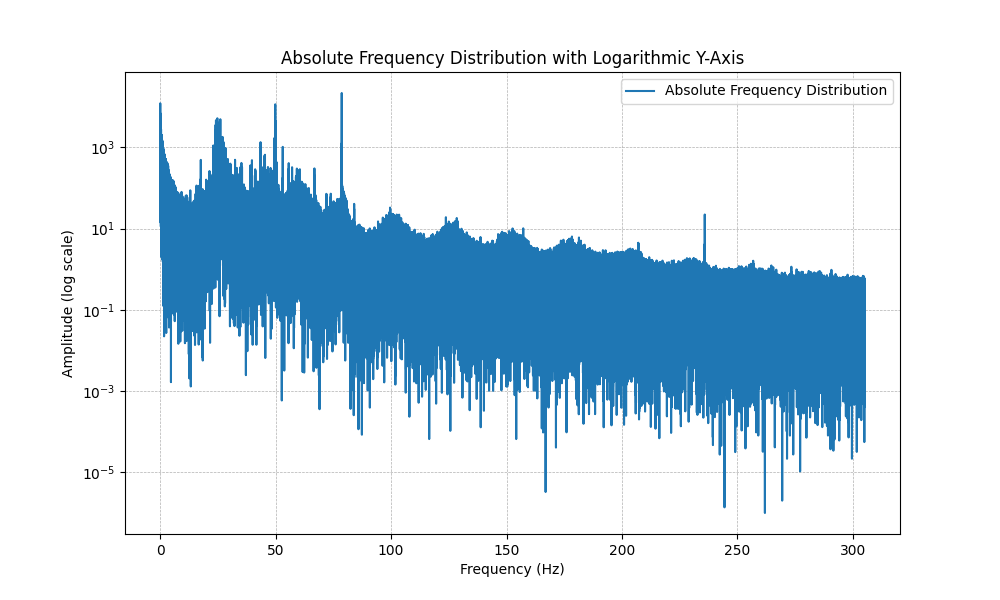
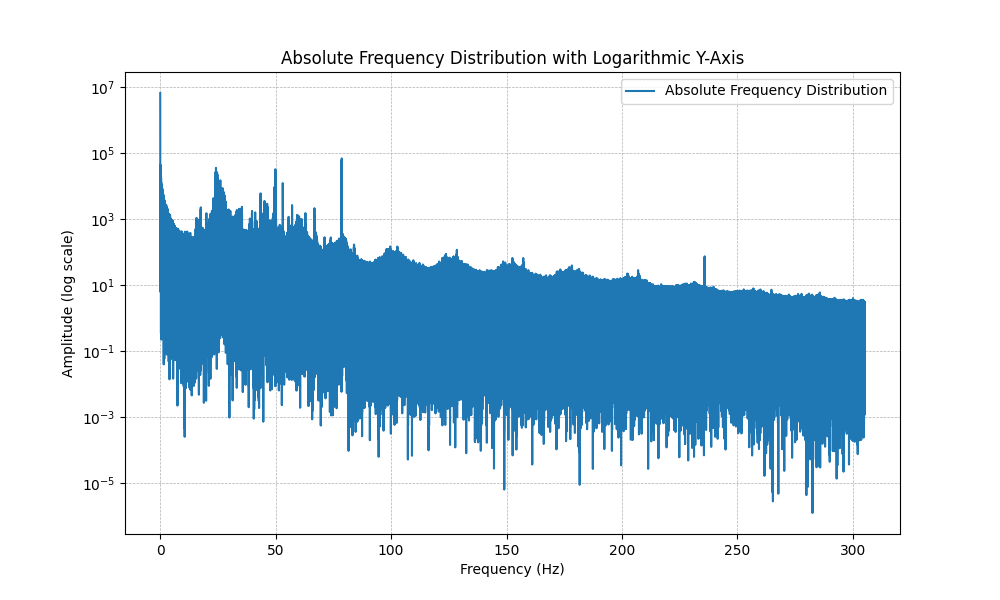
.

diff --git a/main.py b/main.py
@@ -287,6 +287,12 @@ def main_old():
                  os.path.join(current_dir, data_dir, interferometer2_csv), 
                  os.path.join(current_dir, data_dir, interferometer3_csv)]
 
+    channel_mapping = {
+    'Horizontal Distance 1': 1,  # Channel 2 for Horizontal Distance 1
+    'Horizontal Distance 2': 2,  # Channel 3 for Horizontal Distance 2
+    'Horizontal Distance 3': 3   # Channel 1 for Horizontal Distance 3
+    }
+
     # Zenith angles for each interferometer in gons
     IFM_zenithal_angles = [102.8495, 102.6638, 103.6139]
 
@@ -305,6 +311,22 @@ def main_old():
     dfs = process_interferometer_data(IFM_files,IFM_zenithal_angles, D_value, delta_angle, omega_angle, ksi_angle, max_time)
 
     analyze_data(dfs)
+
+
+        # Process interferometer data
+    df, max_values = process_interferometer_data(
+    IFM_files,
+    IFM_zenithal_angles,
+    D_value,
+    delta_angle,
+    omega_angle,
+    ksi_angle,
+    channel_mapping,
+    max_time=10000,
+    min_time=9000  # Default of 2 hours, adjust if needed
+    )
+
+    analyze_data(df)
 
 def compute_psd(data, sampling_rate, column_name):
     """
@@ -466,8 +488,8 @@ def main():
     omega_angle,
     ksi_angle,
     channel_mapping,
-    max_time=10000,
-    min_time=9000  # Default of 2 hours, adjust if needed
+    max_time=15400,
+    #min_time=9000  # Default of 2 hours, adjust if needed
     )
 
     analyze_data(df)
